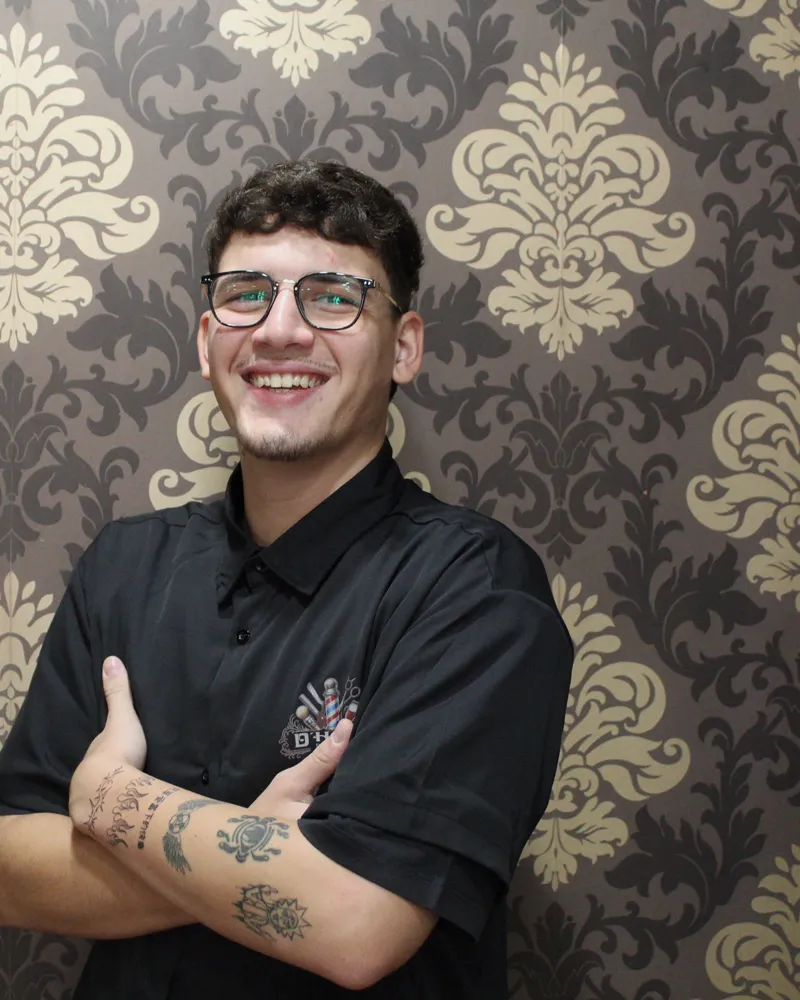
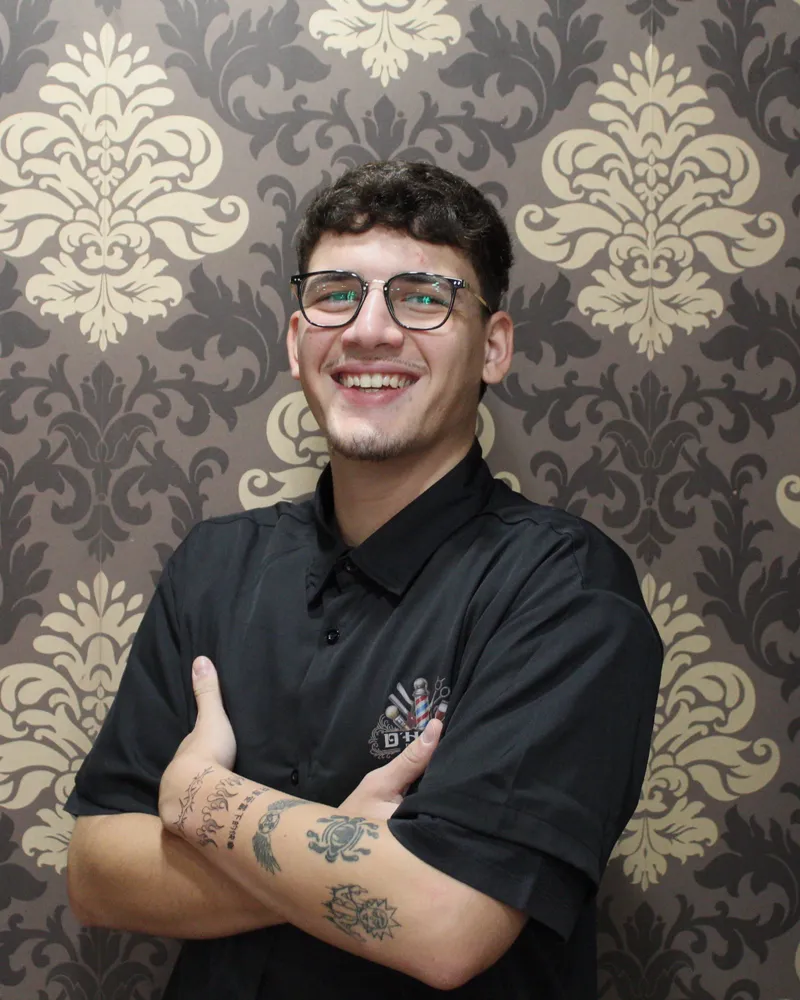
Botón Pedir cita rediseñado, Marcos centrado y Depilación sin foto
- Botón dorado con relieve, icono de teléfono en círculo, número debajo, brillo al pasar el ratón y el teléfono 'suena'
- Versión compacta en la cabecera y en la barra del móvil
- Retrato de Marcos Paz recentrado
- Panel de Depilación sin hueco de foto: zonas en fichas grandes

Claude-Session: https://claude.ai/code/session_01Ad3cZ9LoYdcAq9tgU9iuXg

diff --git a/index.html b/index.html
@@ -70,6 +70,34 @@ svg.i{width:22px;height:22px;flex:none}
 .link:hover{border-color:var(--gold);gap:.7rem}
 .link svg{width:17px;height:17px}
 
+/* Botón Pedir cita */
+.btn-cta{position:relative;isolation:isolate;overflow:hidden;gap:.85rem;min-height:60px;padding:.45rem 1.4rem .45rem .45rem;border-radius:999px;color:#241010;
+  background:linear-gradient(180deg,#f0dcae 0%,var(--gold) 45%,#c9a96a 100%);
+  box-shadow:inset 0 1px 0 rgba(255,255,255,.55),inset 0 -2px 0 rgba(90,60,20,.25),0 10px 24px -10px rgba(8,2,2,.9),0 0 0 1px rgba(216,189,134,.35);
+  transition:transform .16s var(--ease-out),box-shadow .3s ease,filter .3s ease}
+.btn-cta::after{content:"";position:absolute;inset:0;z-index:-1;background:linear-gradient(105deg,transparent 35%,rgba(255,255,255,.55) 50%,transparent 65%);transform:translateX(-120%);transition:transform .9s var(--ease-out)}
+.cta-ico{width:48px;height:48px;flex:none;border-radius:50%;display:grid;place-content:center;background:#2a1210;color:var(--gold-hi);box-shadow:inset 0 0 0 1px rgba(216,189,134,.35)}
+.cta-ico svg{width:20px;height:20px}
+.cta-txt{display:grid;gap:.18rem;text-align:left;line-height:1}
+.cta-txt b{font-weight:600;font-size:1.05rem;letter-spacing:.01em}
+.cta-txt small{font-weight:500;font-size:.8rem;letter-spacing:.06em;color:#5a3a2a;font-variant-numeric:tabular-nums}
+@media(hover:hover){
+  .btn-cta:hover{filter:brightness(1.04);box-shadow:inset 0 1px 0 rgba(255,255,255,.6),inset 0 -2px 0 rgba(90,60,20,.25),0 14px 30px -10px rgba(8,2,2,.95),0 0 0 1px rgba(216,189,134,.6)}
+  .btn-cta:hover::after{transform:translateX(120%)}
+  .btn-cta:hover .cta-ico svg{animation:ring .7s var(--ease-out)}
+}
+.btn-cta:active{transform:scale(.97)}
+@keyframes ring{0%,100%{transform:rotate(0)}20%{transform:rotate(-14deg)}40%{transform:rotate(12deg)}60%{transform:rotate(-8deg)}80%{transform:rotate(4deg)}}
+.btn-cta-sm{min-height:46px;padding:.3rem 1.05rem .3rem .3rem;gap:.6rem}
+.btn-cta-sm .cta-ico{width:36px;height:36px}
+.btn-cta-sm .cta-ico svg{width:16px;height:16px}
+.btn-cta-sm .cta-txt b{font-size:.95rem}
+.bar .btn-cta{display:none}
+@media(min-width:960px){.bar .btn-cta{display:inline-flex}}
+.callbar .btn-cta{width:100%;justify-content:center;min-height:48px}
+.callbar{align-items:center}
+.callbar .btn-line{border-radius:999px}
+
 /* Cabecera */
 header{position:sticky;top:0;z-index:40;background:rgba(30,12,11,.88);backdrop-filter:saturate(1.3) blur(12px);-webkit-backdrop-filter:saturate(1.3) blur(12px);border-bottom:1px solid var(--line);padding-top:env(safe-area-inset-top,0px)}
 .bar{height:var(--head);display:flex;align-items:center;gap:1.5rem}
@@ -236,6 +264,13 @@ section{padding:clamp(4.5rem,9vw,7.5rem) 0}
 .pane-items li{display:flex;align-items:center;gap:.7rem;padding:.55rem 0;border-bottom:1px solid var(--line);color:var(--ink)}
 .pane-items li::before{content:"";width:6px;height:6px;border-radius:50%;background:var(--gold);flex:none}
 .pane-body .link{align-self:flex-start}
+.svc-pane.pane-text{grid-template-columns:1fr;position:relative;overflow:hidden}
+.svc-pane.pane-text::before{content:"";position:absolute;right:-60px;bottom:-60px;width:320px;height:320px;border-radius:50%;background:radial-gradient(circle,rgba(216,189,134,.10),transparent 65%);pointer-events:none}
+.pane-text .pane-body{padding:clamp(1.6rem,4vw,2.8rem);justify-content:flex-start}
+.pane-big-ico{width:58px;height:58px;border-radius:50%;display:grid;place-content:center;background:var(--wine);color:var(--gold);box-shadow:inset 0 0 0 1px var(--line-2);margin-bottom:1.2rem}
+.pane-big-ico svg{width:24px;height:24px}
+.pane-zones{list-style:none;margin:0 0 1.8rem;padding:0;display:grid;grid-template-columns:repeat(auto-fill,minmax(130px,1fr));gap:.6rem}
+.pane-zones li{font-family:var(--display);font-size:1.3rem;color:var(--ink);padding:.85rem 1rem;border:1px solid var(--line-2);border-radius:var(--r);background:rgba(0,0,0,.15)}
 .svc-pane.on .pane-ph{animation:panePh .7s var(--ease-out)}
 .svc-pane.on .pane-body>*{animation:paneIn .55s var(--ease-out) both}
 .svc-pane.on .pane-body>*:nth-child(2){animation-delay:.05s}.svc-pane.on .pane-body>*:nth-child(3){animation-delay:.1s}.svc-pane.on .pane-body>*:nth-child(4){animation-delay:.15s}
@@ -616,7 +651,7 @@ footer{background:var(--bg);padding:2.5rem 0 1.5rem;border-top:1px solid var(--l
       <a href="#/ubicacion">Ubicación y horario</a>
       <a href="#/contacto">Contacto</a>
     </nav>
-    <a class="btn btn-gold" href="tel:633247464"><svg class="i"><use href="#i-ph"/></svg>Pedir cita</a>
+    <a class="btn btn-cta btn-cta-sm" href="tel:633247464"><span class="cta-ico"><svg class="i"><use href="#i-ph"/></svg></span><span class="cta-txt"><b>Pedir cita</b></span></a>
     <button class="burger" id="burger" aria-label="Abrir menú" aria-expanded="false" aria-controls="menu"><span></span><span></span></button>
   </div>
 </header>
@@ -646,7 +681,7 @@ footer{background:var(--bg);padding:2.5rem 0 1.5rem;border-top:1px solid var(--l
         <h1 class="rise">Corte y barba con oficio, <em>desde&nbsp;1994.</em></h1>
         <p class="lead rise d1">Peluquería de caballeros en el centro de Vilagarcía de Arousa. Llámanos para pedir cita o para cualquier consulta.</p>
         <div class="cta-row rise d2">
-          <a class="btn btn-gold" href="tel:633247464"><svg class="i"><use href="#i-ph"/></svg>Pedir cita</a>
+          <a class="btn btn-cta" href="tel:633247464"><span class="cta-ico"><svg class="i"><use href="#i-ph"/></svg></span><span class="cta-txt"><b>Pedir cita</b><small>633 247 464</small></span></a>
           <a class="link" href="#/servicios">Ver servicios<svg class="i"><use href="#i-arrow"/></svg></a>
         </div>
       </div>
@@ -707,12 +742,12 @@ footer{background:var(--bg);padding:2.5rem 0 1.5rem;border-top:1px solid var(--l
               <a class="link" href="#/servicios">Ver detalles<svg class="i"><use href="#i-arrow"/></svg></a>
             </div>
           </div>
-          <div class="svc-pane" role="tabpanel" id="sp-depi" aria-labelledby="st-depi" hidden>
-            <div class="ph pane-ph"><div class="ph-in"><svg><use href="#i-ca"/></svg><small>Foto de depilación pendiente</small></div><span class="pane-ico"><svg class="i"><use href="#i-tw"/></svg></span></div>
+          <div class="svc-pane pane-text" role="tabpanel" id="sp-depi" aria-labelledby="st-depi" hidden>
             <div class="pane-body">
+              <span class="pane-big-ico" aria-hidden="true"><svg class="i"><use href="#i-tw"/></svg></span>
               <h3>Depilación</h3>
               <p>Rápida y cuidadosa, en las zonas que más se notan.</p>
-              <ul class="pane-items"><li>Cejas</li><li>Entrecejo</li><li>Orejas</li><li>Nariz</li><li>Piernas</li></ul>
+              <ul class="pane-zones"><li>Cejas</li><li>Entrecejo</li><li>Orejas</li><li>Nariz</li><li>Piernas</li></ul>
               <a class="link" href="#/servicios">Ver detalles<svg class="i"><use href="#i-arrow"/></svg></a>
             </div>
           </div>
@@ -929,7 +964,7 @@ footer{background:var(--bg);padding:2.5rem 0 1.5rem;border-top:1px solid var(--l
       </div>
       <div class="note">
         <div><strong>Precios por teléfono</strong><p>Te los confirmamos al pedir tu cita.</p></div>
-        <a class="btn btn-gold" href="tel:633247464"><svg class="i"><use href="#i-ph"/></svg>Pedir cita</a>
+        <a class="btn btn-cta" href="tel:633247464"><span class="cta-ico"><svg class="i"><use href="#i-ph"/></svg></span><span class="cta-txt"><b>Pedir cita</b><small>633 247 464</small></span></a>
       </div>
     </div>
   </section>
@@ -1161,7 +1196,7 @@ footer{background:var(--bg);padding:2.5rem 0 1.5rem;border-top:1px solid var(--l
     <h2>¿Te buscamos hueco?</h2>
     <p>Llámanos y te damos cita en el horario que mejor te venga.</p>
     <div class="cta-row">
-      <a class="btn btn-gold" href="tel:633247464"><svg class="i"><use href="#i-ph"/></svg>Pedir cita</a>
+      <a class="btn btn-cta" href="tel:633247464"><span class="cta-ico"><svg class="i"><use href="#i-ph"/></svg></span><span class="cta-txt"><b>Pedir cita</b><small>633 247 464</small></span></a>
     </div>
   </div>
 </div>
@@ -1191,7 +1226,7 @@ footer{background:var(--bg);padding:2.5rem 0 1.5rem;border-top:1px solid var(--l
 </div>
 
 <div class="callbar">
-  <a class="btn btn-gold" href="tel:633247464"><svg class="i"><use href="#i-ph"/></svg>Pedir cita</a>
+  <a class="btn btn-cta btn-cta-sm" href="tel:633247464"><span class="cta-ico"><svg class="i"><use href="#i-ph"/></svg></span><span class="cta-txt"><b>Pedir cita</b></span></a>
   <a class="btn btn-line" href="https://www.google.com/maps/search/?api=1&query=Arzobispo+Gelm%C3%ADrez+7+Vilagarc%C3%ADa+de+Arousa" target="_blank" rel="noopener"><svg class="i"><use href="#i-pn"/></svg>Cómo llegar</a>
 </div>
 
